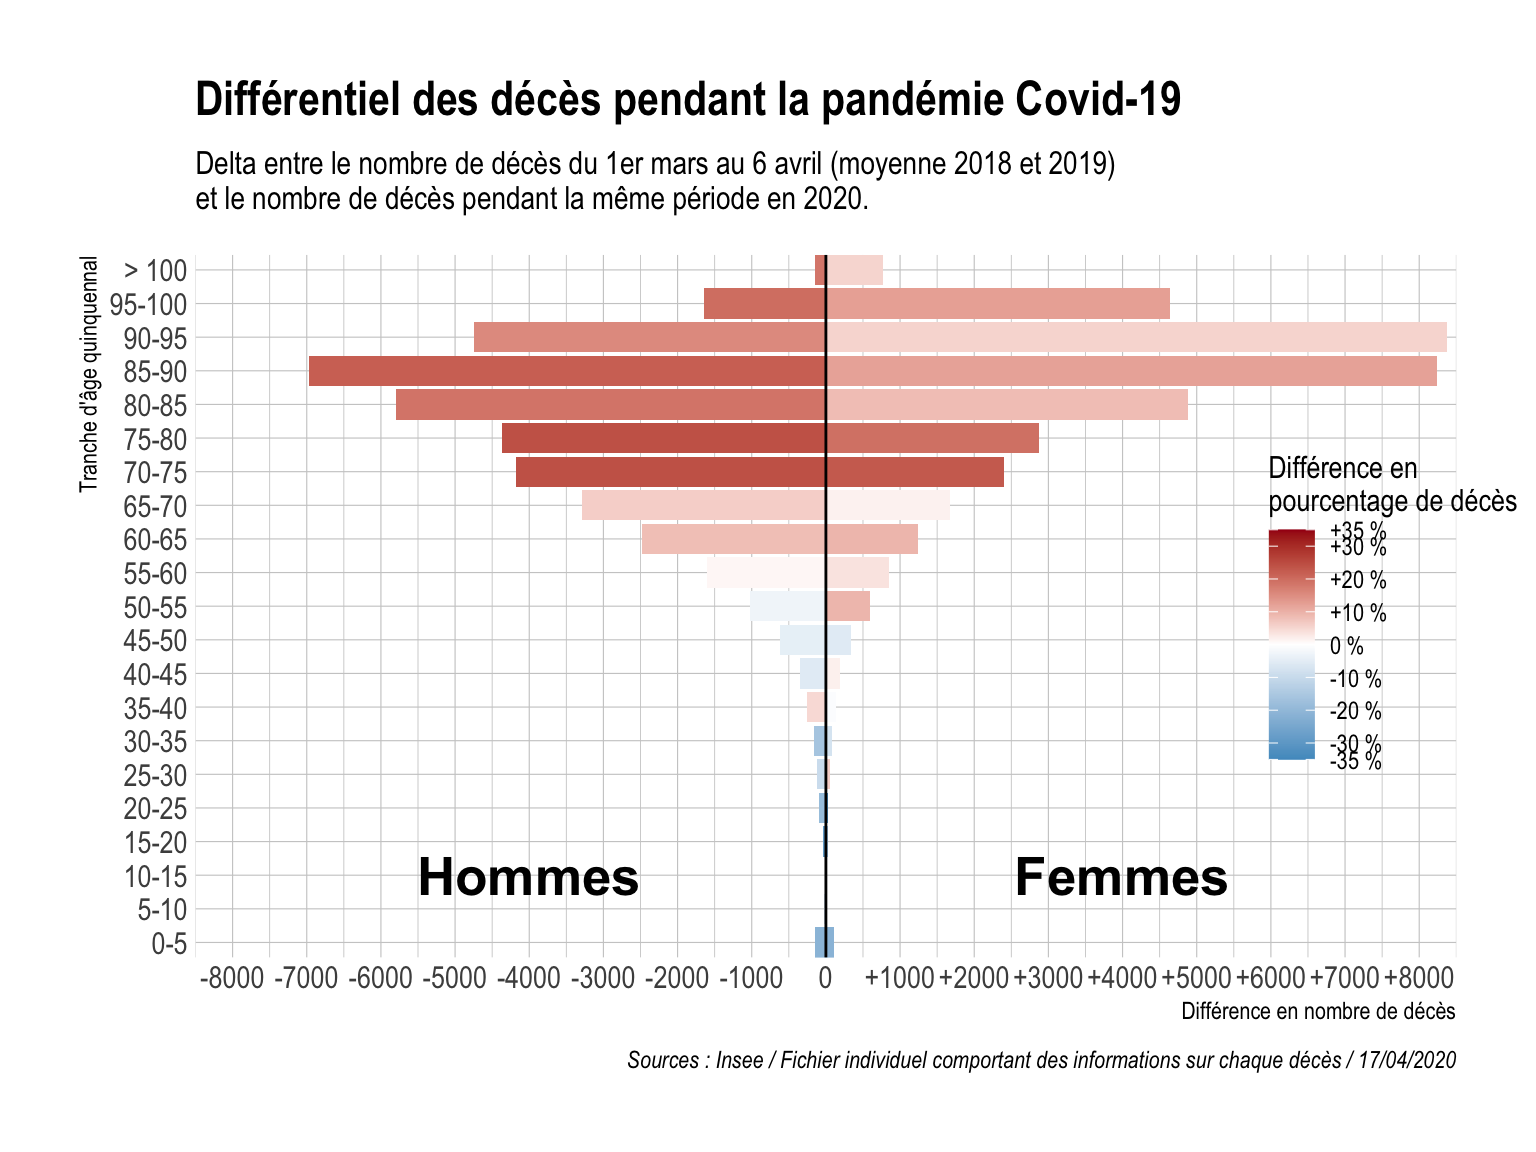
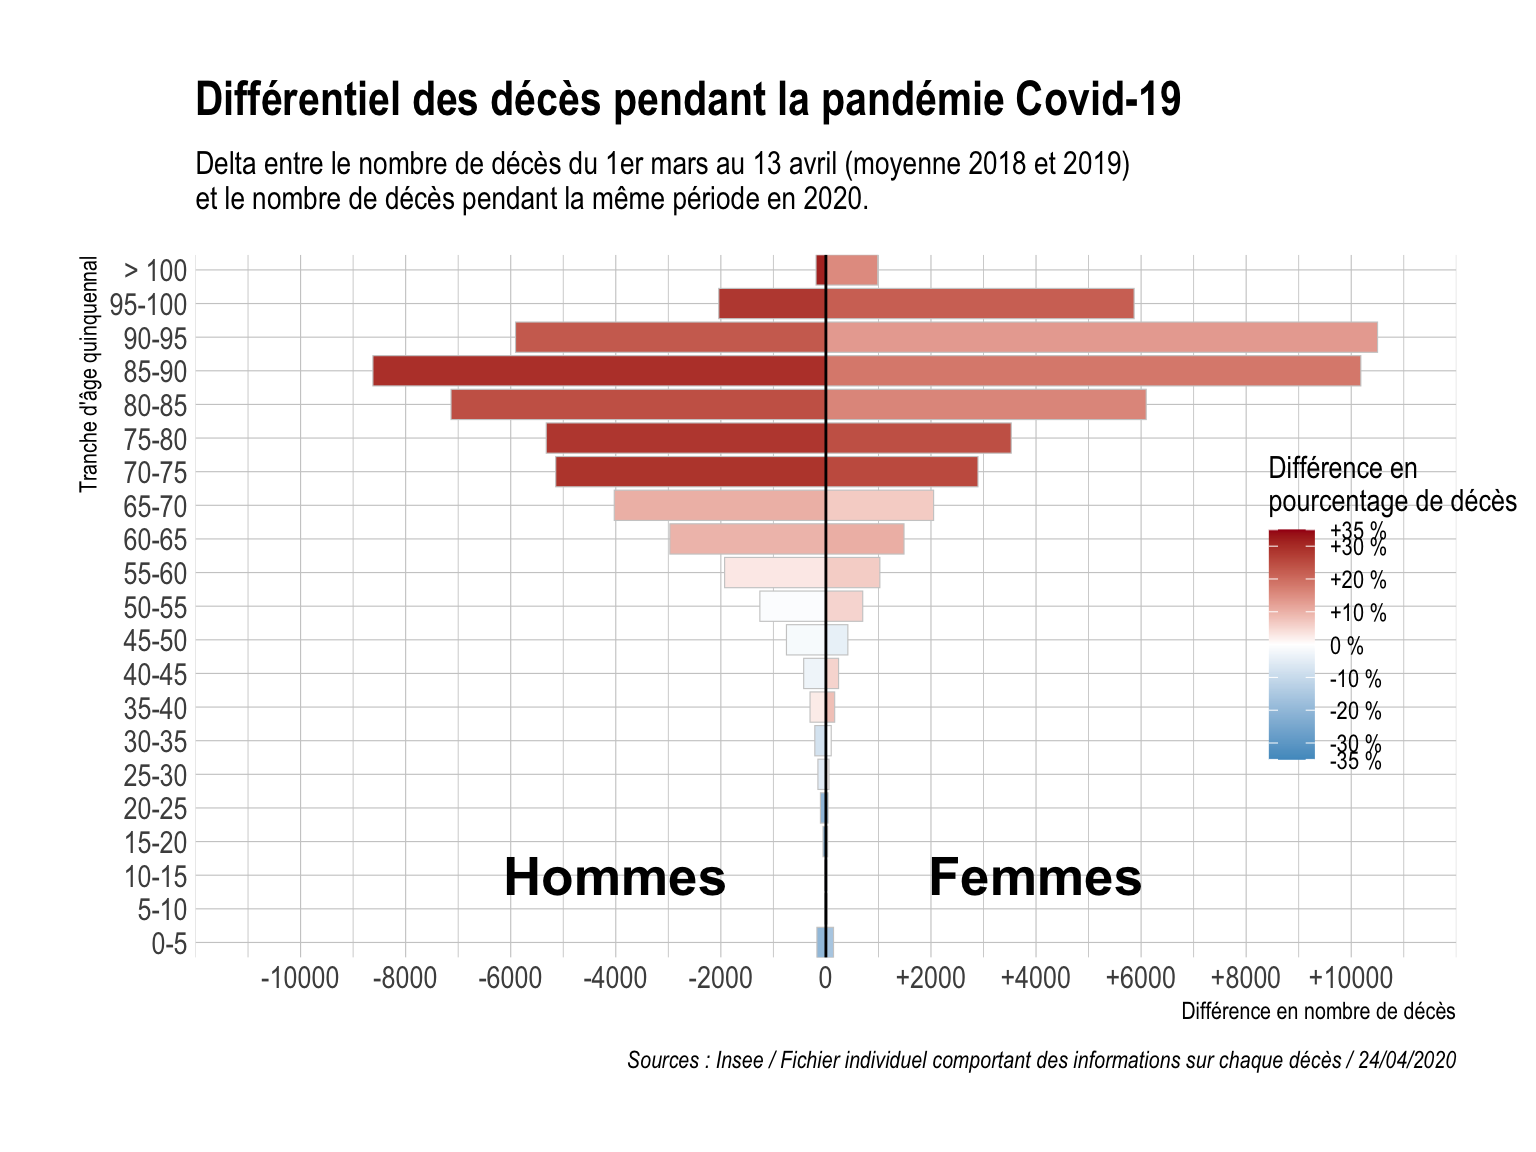
données insee 24/04

diff --git a/blog/deces_pandemie/index.html b/blog/deces_pandemie/index.html
@@ -152,42 +152,37 @@
 <h4>Méthodo</h4>
 <ul>
 <li><a href="https://www.insee.fr/fr/information/4470857">Analyse de l’Insee</a></li>
-<li><a href="https://www.insee.fr/fr/statistiques/fichier/4470857/2020-04-17_detail.zip">Fichier de données individuelles publiées par l’Insee</a></li>
+<li><a href="https://www.insee.fr/fr/statistiques/fichier/4470857/2020-04-24_detail.zip">Fichier de données individuelles publiées par l’Insee</a></li>
 <li><a href="https://statisfaction.wordpress.com/2020/04/12/a-quick-preliminary-study-of-covid-death-under-reporting-in-france/">Modélisation de l’excédent de décès</a></li>
-<li><a href="https://github.com/mtmx">Code des graphiques et stats</a></li>
+<li><a href="https://github.com/mtmx/pandemie_excedeces">Code des graphiques et stats de ce post</a></li>
 </ul>
-<p>Comme dans l’analyse de l’Insee l’idée globale de ce qui suit est donc une <strong>analyse de l’excédent de décès pendant la pandémie de Covid-19</strong> : on compare le nombre de décès du 1er mars au 6 avril des années précédentes (2018 et 2019) au nombre de décès du 1er mars au 6 avril 2020.
+<p>Comme dans l’analyse de l’Insee l’idée globale de ce qui suit est donc une <strong>analyse de l’excédent de décès pendant la pandémie de Covid-19</strong> : on compare le nombre de décès du 1er mars au 13 avril des années précédentes (2018 et 2019) au nombre de décès du 1er mars au 13 avril 2020.
 <strong>On ne peut donc pas conclure directement que ces décès sont des malades du Covid-19.</strong></p>
 <p>Les alertes méthodologiques de l’Insee :</p>
 <ul>
 <li>Les chiffres sont provisoires et seront révisés dans les prochaines semaines (délai de transmissions à l’Insee variables)</li>
 <li>Entre mi-mars et fin mars, la mairie de Marseille a fait face à des problèmes techniques ayant affecté ses transmissions à l’Insee. Le nombre de décès y est donc largement sous-valorisé</li>
 </ul>
-<p>Librairies R bien utiles pour créer ce qui suit :</p>
-<ul>
-<li><a href="https://cran.r-project.org/web/packages/tidyverse/index.html">tidyverse</a> : meta package pour la gestion/transformation/visualisation des données</li>
-<li><a href="https://cran.r-project.org/web/packages/tidyverse/index.html">sf</a> gestion des données spatiales</li>
-<li><a href="https://github.com/ateucher/rmapshaper">rmapshaper</a> : simplification des geometries</li>
-<li><a href="https://github.com/hrbrmstr/hrbrthemes">hrbrthemes</a> : style des sorties graphiques</li>
-<li><a href="https://github.com/antuki/CARTElette">CARTElette</a> : fonds carto communes France métropolitaine et DROM</li>
-<li><a href="https://github.com/antuki/COGugaison">COGugaison</a> : vérification et conversion entre millésimes de Code Officiel Géographique</li>
-<li><a href="https://github.com/observatoire-territoires/migR">migR</a> : ajout de codes et libellés géographiques</li>
-<li><a href="https://github.com/slu-openGIS/areal">areal</a> : interpolation spatiale des stats communales vers grille</li>
-<li><a href="https://github.com/sjewo/cartogram">cartogram</a> : cartogrammes de Dorling</li>
-<li><a href="https://github.com/hafen/geofacet">geofacet</a> : faceting pseudo géographique</li>
-</ul>
+<p><br>
+<br></p>
 </div>
 <div id="profil-agesexe" class="section level3">
 <h3>Profil age/sexe</h3>
-<p>On compare les décès de cette année (1er mars - 6 avril) à ceux des années précédents sur la même période.
+<p>On compare les décès de cette année (période 1er mars - 13 avril) à ceux des années précédents sur la même période.
 En foncé on distingue donc l’excédent des décès pendant cette période de pandémie (versus les années précédentes) :</p>
-<p><img src="/blog/deces_pandemie_files/figure-html/pyramide_1-1.png" width="768" /></p>
-<p>Ci-dessous uniquement l’excédent (ou le déficit pour les classes d’âge jeunes) de décès pendant cette période de pandémie, c’est à dire ce qui était en couleur foncée dans le premier graphique :</p>
+<p><img src="/blog/deces_pandemie_files/figure-html/pyramide_1-1.png" width="864" /></p>
+<p>Ci-dessous on s’intéresse uniquement l’excédent (ou le déficit pour les classes d’âge jeunes) de décès pendant cette période de pandémie, c’est à dire ce qui était en couleur foncée dans le premier graphique :</p>
 <p><img src="/blog/deces_pandemie_files/figure-html/evol_agesexe-1.png" width="768" /></p>
+<p>C’est chez les femmes de 85 à 100 ans qu’on trouve le plus d’excédent de décès mais chez les hommes de 70 à 90 ans que la surmortalité par rapport aux années précédentes est la plus forte.</p>
+<p><br></p>
 </div>
 <div id="localisation-des-décès-au-niveau-départemental" class="section level3">
 <h3>Localisation des décès au niveau départemental</h3>
+<p>Ici on regarde de quels départements proviennent les décès : la différence semble ténue, que l’on regarde où ont eu lieu les décès (à gauche) ou où étaient domiciliées les personnes décédées.</p>
 <p><img src="/blog/deces_pandemie_files/figure-html/carte_dep-1.png" width="960" /></p>
+<p>Mais en regardant les liens entre département de domicile et département de décès (et surtout ceux en rouge qui ont largement augmenté par rapport aux années précédentes), on peut distinguer les transferts vers les centres hospitaliers situés dans les grandes villes. Le plus
+Le zoom sur l’Ile de France est illisible mais on peut simplement voir que tous les flux ont augmenté.</p>
+<p><img src="/blog/deces_pandemie_files/figure-html/carte_dep_flux-1.png" width="1056" /></p>
 </div>
 <div id="localisation-des-décès-au-niveau-local" class="section level3">
 <h3>Localisation des décès au niveau local</h3>
@@ -195,14 +190,19 @@ En foncé on distingue donc l’excédent des décès pendant cette période de 
 </div>
 <div id="stats-par-commune" class="section level3">
 <h3>Stats par commune</h3>
-<p><img src="/blog/deces_pandemie_files/figure-html/palmares_communes-1.png" width="768" /></p>
+<p>Il s’agit là des communes où ont eu lieu les décès donc celles qui accueillent un hopital sur leur territoire sont sur-représentées.
+Le cas de Marseille reste illisible à cause des données manquantes du mois de mars.</p>
+<p><img src="/blog/deces_pandemie_files/figure-html/palmares_communes-1.png" width="960" /></p>
 </div>
 <div id="evolution-temporelle-en-france" class="section level3">
 <h3>Evolution temporelle en France</h3>
 <p><img src="/blog/deces_pandemie_files/figure-html/evol_temp_fr-1.png" width="768" /></p>
+<p>Le 31 mars 2020 on a compté quasiment 10 00 décès de plus que le 31 mars des années précédentes (moyenne 2018 et 2019), soit + 57%. Il semble que la sur-mortalité soit en baisse mais l’Insee alerte sur la possibilité de retards dans la remontée de déclaration des décès.</p>
+<p><br></p>
 </div>
 <div id="evolution-temporelle-par-région" class="section level3">
 <h3>Evolution temporelle par région</h3>
+<p>Même chose mais par région pour distinguer la dynamique de sur-mortalité.</p>
 <p><img src="/blog/deces_pandemie_files/figure-html/evol_temp_reg-1.png" width="960" /></p>
 </div>
 
